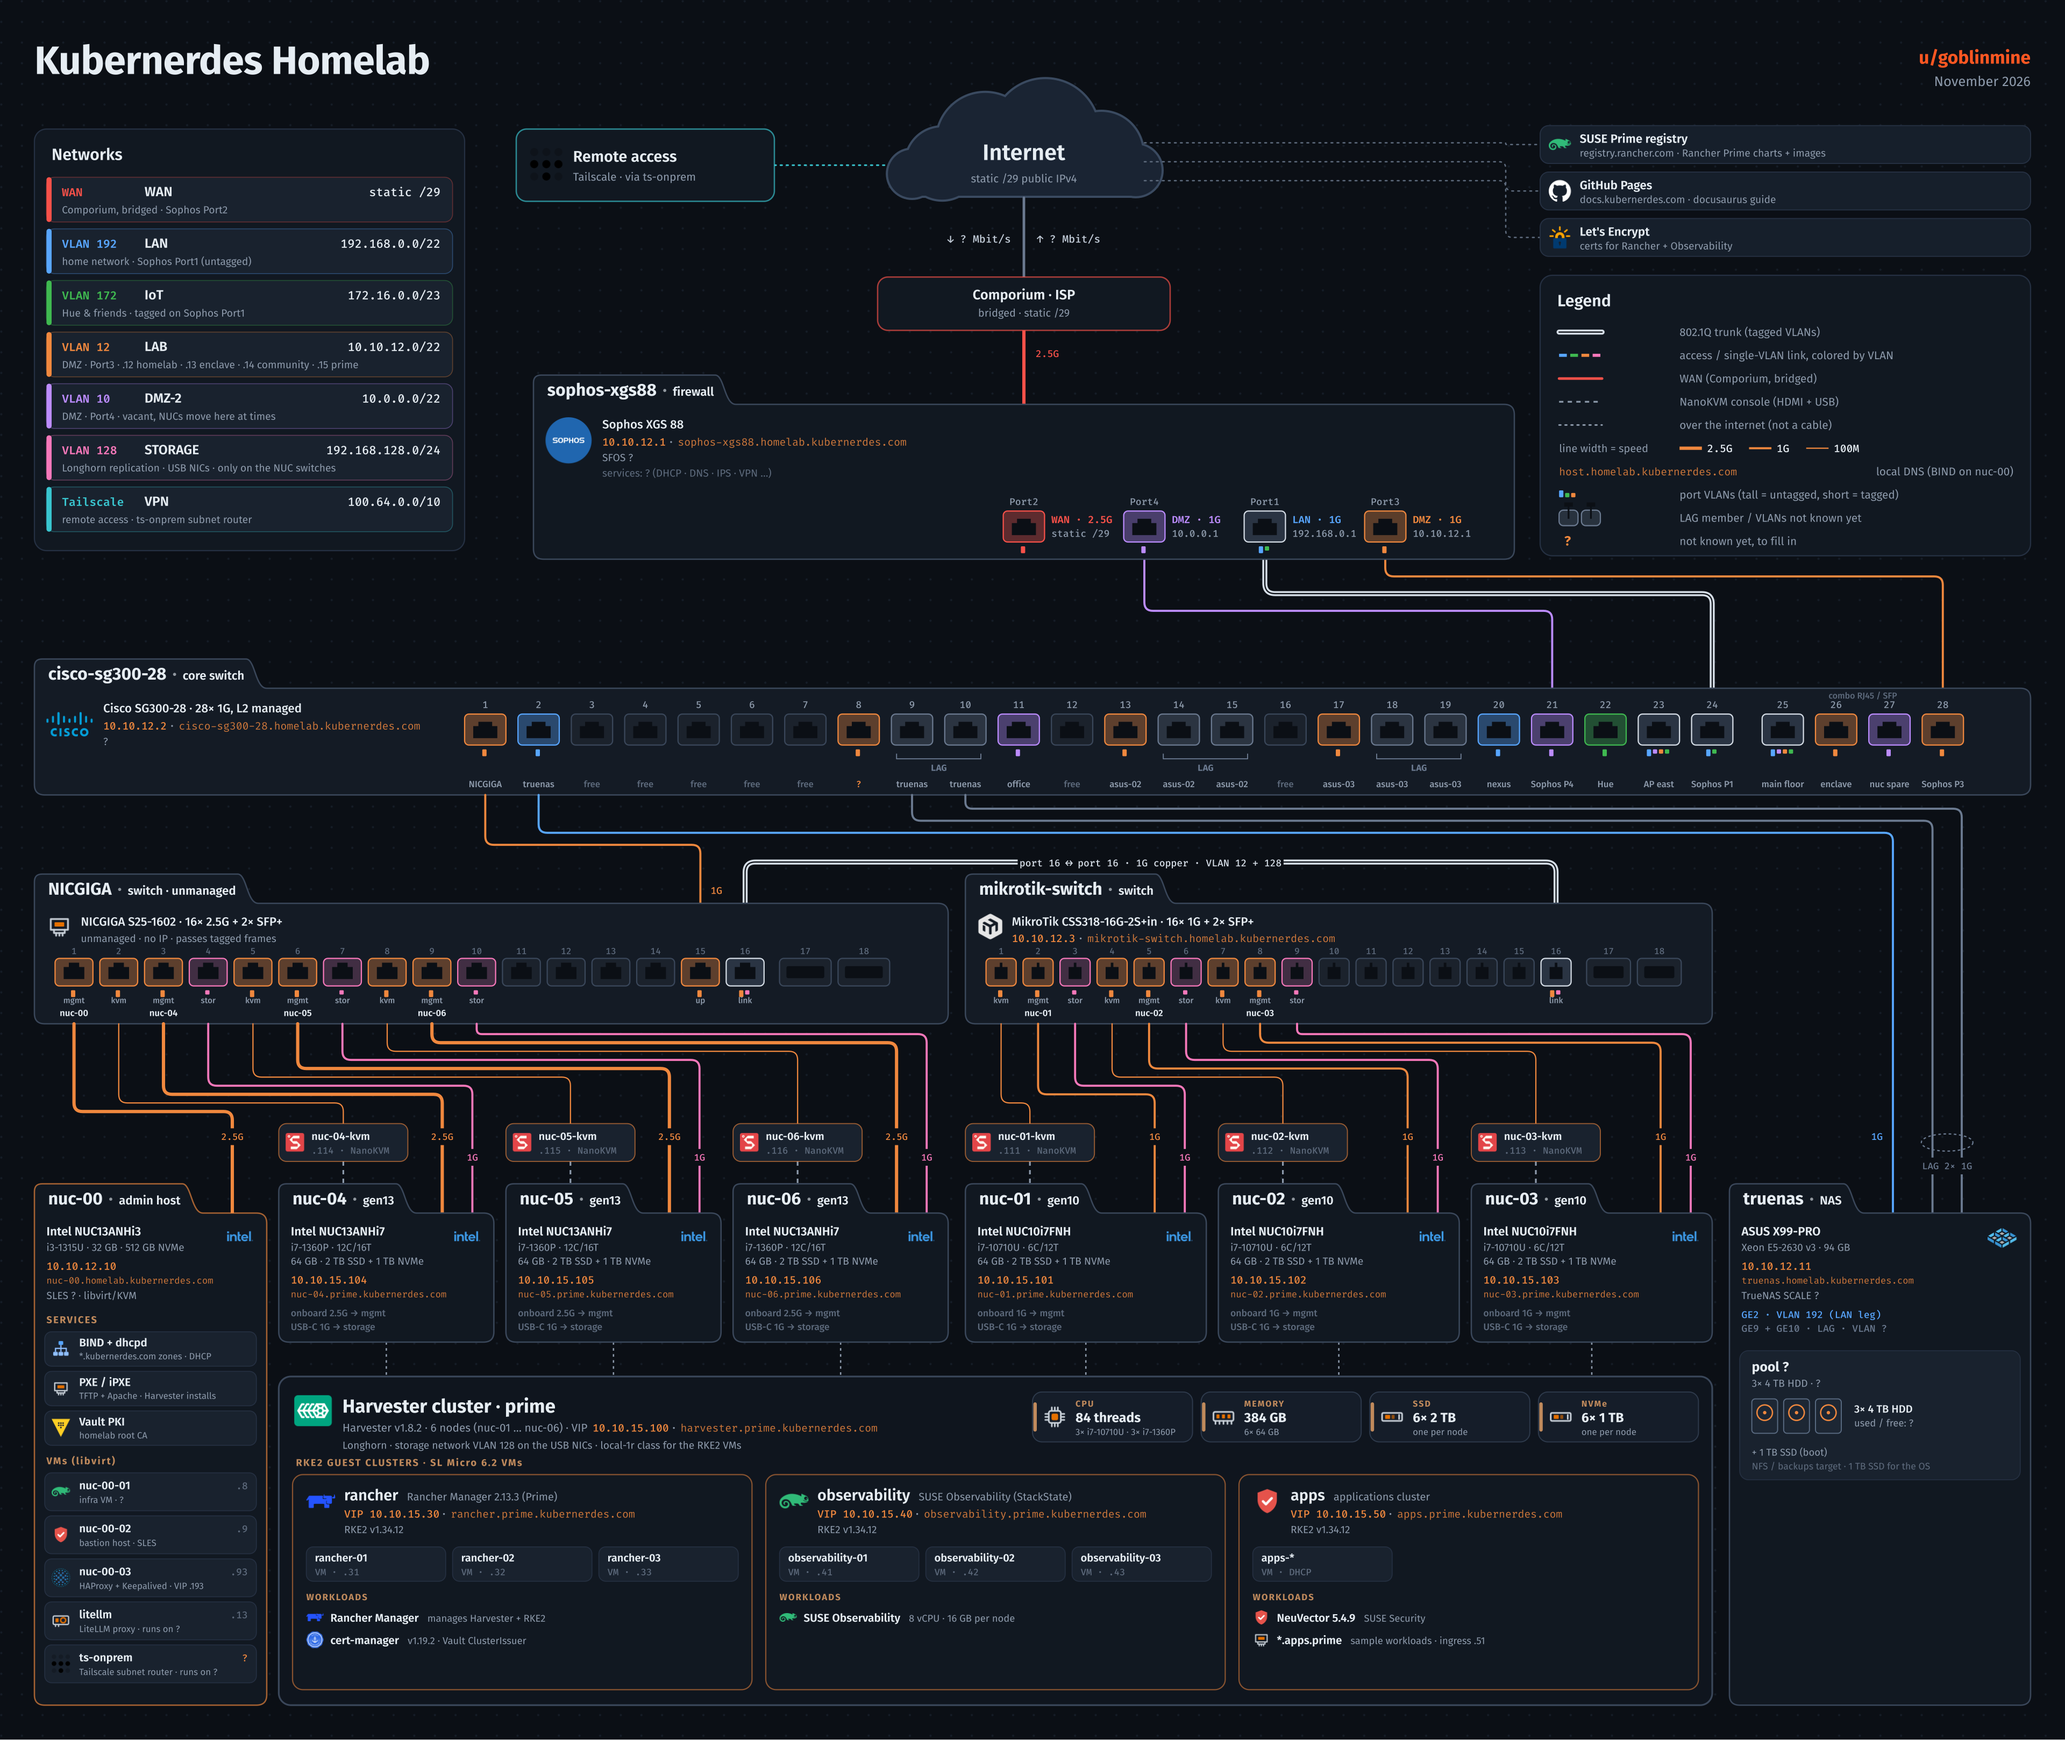
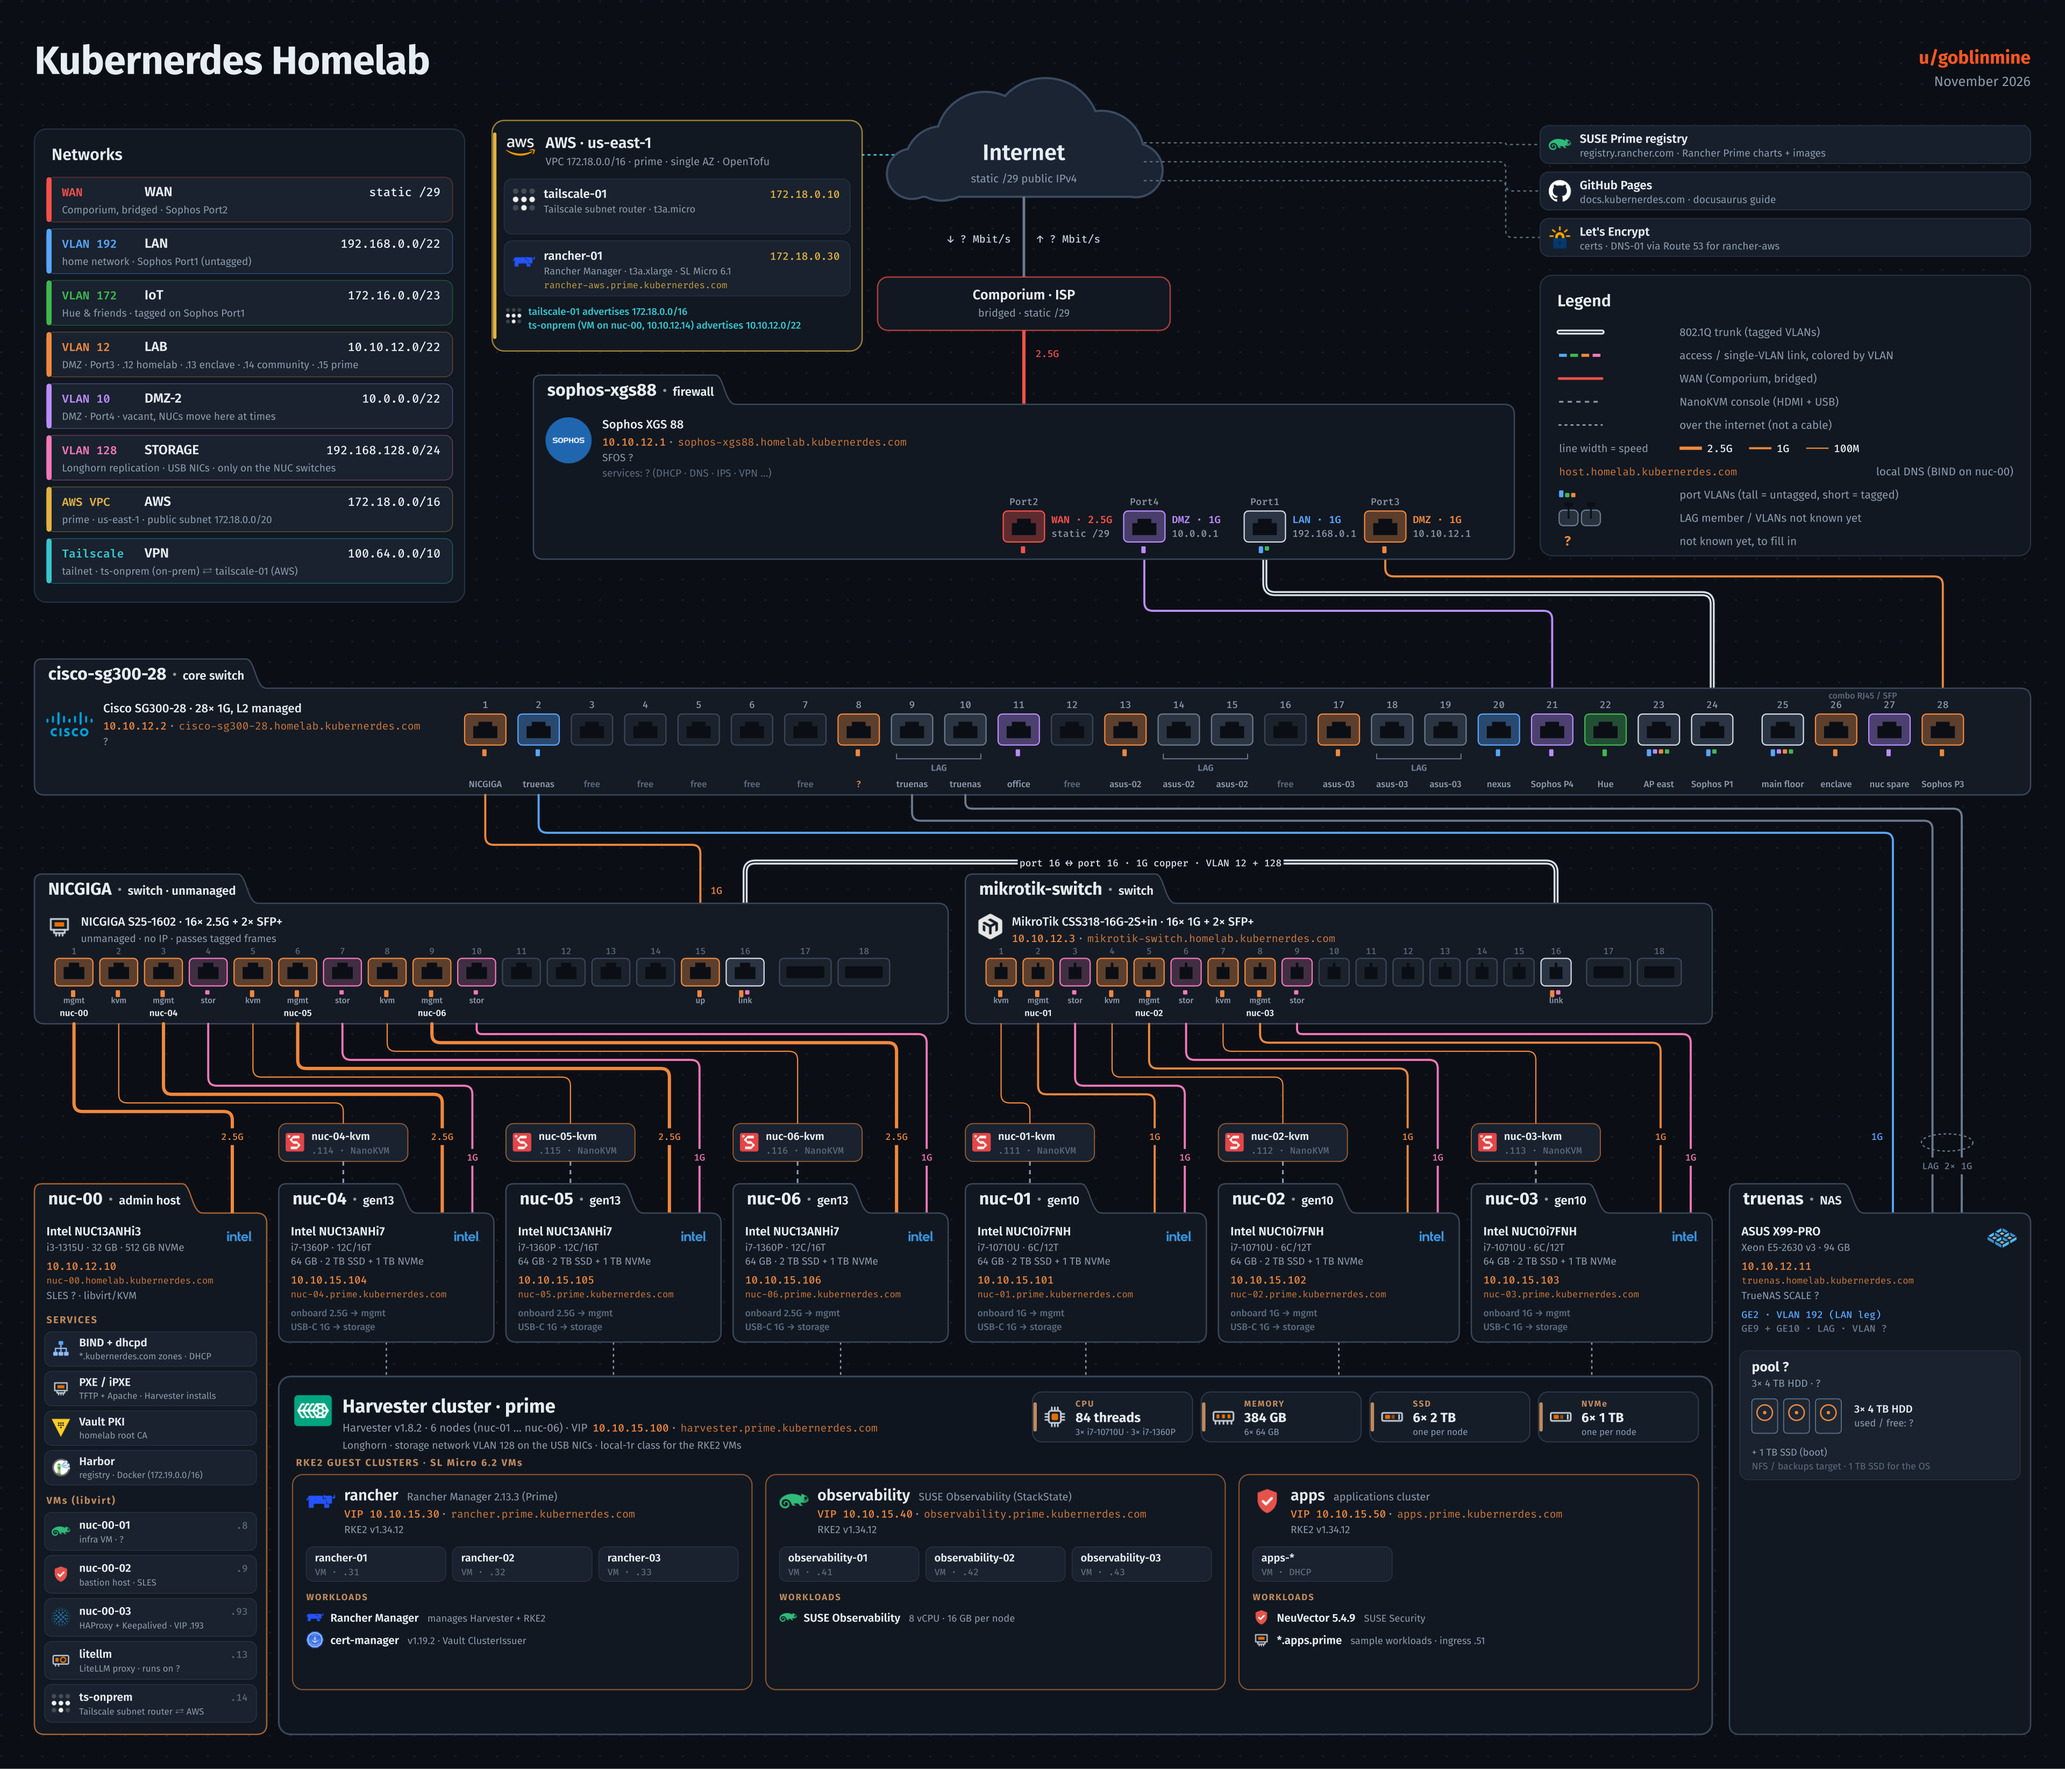
Diagram: add AWS VPC, Tailscale routers, Harbor
AWS panel (us-east-1, VPC 172.18.0.0/16) with tailscale-01 and rancher-01,
replacing the generic remote-access card. Networks table gets the AWS VPC
row, ts-onprem gets its address (.14), nuc-00 lists Harbor. The bottom row
now grows to fit nuc-00's card.

diff --git a/Diagram/build.py b/Diagram/build.py
@@ -378,9 +378,10 @@ for i, v in enumerate(INV["vlans"]):
 CX = 1190
 cy0 = 172
 
-rw = INV["remote"]
-rx_, ry_ = 600, 150
-S.line([(rx_ + 300, ry_ + 42), (CX - 100, ry_ + 42)], C["ts"], 1.8, dash="2 5", r=0)
+# AWS (reached over Tailscale: tailscale-01 in the VPC <-> ts-onprem on nuc-00)
+aws = INV["aws"]
+ax, ay, aw, ah = 572, 140, 430, 268
+S.line([(ax + aw, ay + 40), (CX - 100, ay + 40)], C["ts"], 1.8, dash="2 5", r=0)
 
 blobs = [(-95, 18, 42), (-45, -8, 56), (25, -18, 62), (90, 6, 48), (130, 26, 30), (-130, 30, 28)]
 for dx, dy, r in blobs:
@@ -392,10 +393,26 @@ S.add(f'<rect x="{CX-147.5}" y="{cy0+14.5}" width="295" height="41" rx="20.5" fi
 S.text(CX, cy0 + 14, "Internet", 26, TEXT, 600, "middle")
 S.text(CX, cy0 + 40, INV["internet"]["public_ip"] + " public IPv4", 13, MUTED, 400, "middle")
 
-S.rect(rx_, ry_, 300, 84, rx=12, fill=PANEL, stroke=C["ts"] + "aa", sw=1.6)
-S.icon("tailscale", rx_ + 16, ry_ + 22, 38)
-S.text(rx_ + 66, ry_ + 38, rw["name"], 18, TEXT, 600)
-S.text(rx_ + 66, ry_ + 60, rw["note"], 13, MUTED, 400)
+S.rect(ax, ay, aw, ah, rx=14, fill=PANEL, stroke=C["aws"] + "aa", sw=1.6)
+S.add(f'<rect x="{ax+1}" y="{ay+14}" width="4" height="{ah-28}" rx="2" fill="{C["aws"]}"/>')
+S.icon("aws-l", ax + 16, ay + 14, 34)
+S.text(ax + 62, ay + 32, f"{aws['name']} · {aws['region']}", 18, TEXT, 600)
+S.text(ax + 62, ay + 52, f"VPC {aws['vpc']} · {aws['note']}", 12.5, MUTED, 400)
+iy = ay + 68
+for inst in aws["instances"]:
+    S.rect(ax + 14, iy, aw - 28, 64, rx=9, fill=CHIP, stroke=BORDER, sw=1)
+    S.icon(inst["icon"], ax + 24, iy + 11, 26)
+    S.text(ax + 60, iy + 22, inst["name"], 14, TEXT, 600)
+    S.text(ax + aw - 26, iy + 22, inst["ip"], 12, C["aws"], 500, "end", mono=True)
+    S.text(ax + 60, iy + 39, inst["note"], 11.5, MUTED, 400)
+    if inst.get("dns"):
+        S.text(ax + 60, iy + 55, f"{inst['dns']}.{SHOWN_DOMAIN}", 10.5, C["aws"], 400, mono=True, op=0.85)
+    iy += 72
+S.icon("tailscale", ax + 16, iy + 6, 18)
+for k, ln in enumerate(aws["tailnet"]):
+    S.text(ax + 42, iy + 14 + k * 16, ln, 11.5, C["ts"], 500)
+assert iy + 14 + len(aws["tailnet"]) * 16 <= ay + ah, f"AWS panel too short: {iy + 14 + len(aws['tailnet']) * 16 - ay}"
+assert vy + vh < 800 - TAB - 8, "networks table runs into the Cisco"
 
 # cloud services (right column), dotted = over the internet
 csx, csy = 1790, 146
@@ -711,7 +728,10 @@ HY = NY + NH + 40
 hv = INV["harvester"]
 CL_H = 250
 HH = 112 + CL_H + 20
-PB = HY + HH                     # bottom of the tall cards (nuc-00, NAS)
+# nuc-00's card lists services + VMs; the bottom row grows to fit it
+N0_NEED = NY + 138 + len(INV["nuc00"]["services"]) * 46 + 26 + len(INV["nuc00"]["vms"]) * 50 + 8
+PB = max(HY + HH, N0_NEED)       # bottom of the tall cards (nuc-00, NAS) and the Harvester panel
+HH = PB - HY
 
 for key, cx, cw in COLS_NIC[1:] + COLS_MT:
     S.line([(cx + cw / 2, NY + NH), (cx + cw / 2, HY)], MUTED, 1.6, dash="3 4", cap="butt")

diff --git a/Diagram/fetch_icons.py b/Diagram/fetch_icons.py
@@ -38,9 +38,10 @@ ICON_MAP = {
     "windows": "microsoft-windows", "wireguard": "wireguard", "zigbee2mqtt": "zigbee2mqtt",
     # kubernerdes lab
     "sophos": "sophos", "cisco": "cisco", "harvester": "harvester", "rancher": "rancher",
-    "tailscale": "tailscale", "github-l": "github-light", "letsencrypt": "lets-encrypt",
+    "tailscale": "tailscale-light", "github-l": "github-light", "letsencrypt": "lets-encrypt",
     "vault": "hashicorp-vault", "certmanager": "cert-manager", "longhorn": "longhorn",
     "haproxy": "haproxy", "sipeed": "sipeed", "kubernetes": "kubernetes",
+    "aws-l": "aws-light", "harbor": "harbor",
 }
 
 # brands missing from dashboard-icons: monochrome Simple Icons, filled with a color for the dark background

diff --git a/Diagram/README.md b/Diagram/README.md
@@ -30,6 +30,7 @@ The third-party icons are downloaded into `icons/` and are not committed. Only t
 | Versions (Harvester, RKE2, Rancher, NeuVector) | `Scripts/env.d/*.sh` | `harvester.version`, `clusters[].k8s`, `clusters[].apps` |
 | Storage network | `Scripts/env.d/*.sh` (`STORAGE_NETWORK_*`) | `vlans` (VLAN 128), `harvester.storage_note` |
 | Hardware | `Hardware.md` | `harvester.nodes`, `nuc00.model`, `nas.model` |
+| AWS VPC, instances, Tailscale routers | `OpenTofu/aws/` (`variables.tf`, `tailscale.tf`), `Scripts/env.sh` (`AWS_VPC_CIDR`) | `aws`, `vlans` (AWS VPC, Tailscale) |
 | Sophos zones, Cisco ports and VLANs | the Sophos and Cisco web UIs (not in the repo) | `vlans`, `firewall.ports`, `core.ports` |
 
 `?` in the YAML (and in the picture) marks something that is not known yet.
